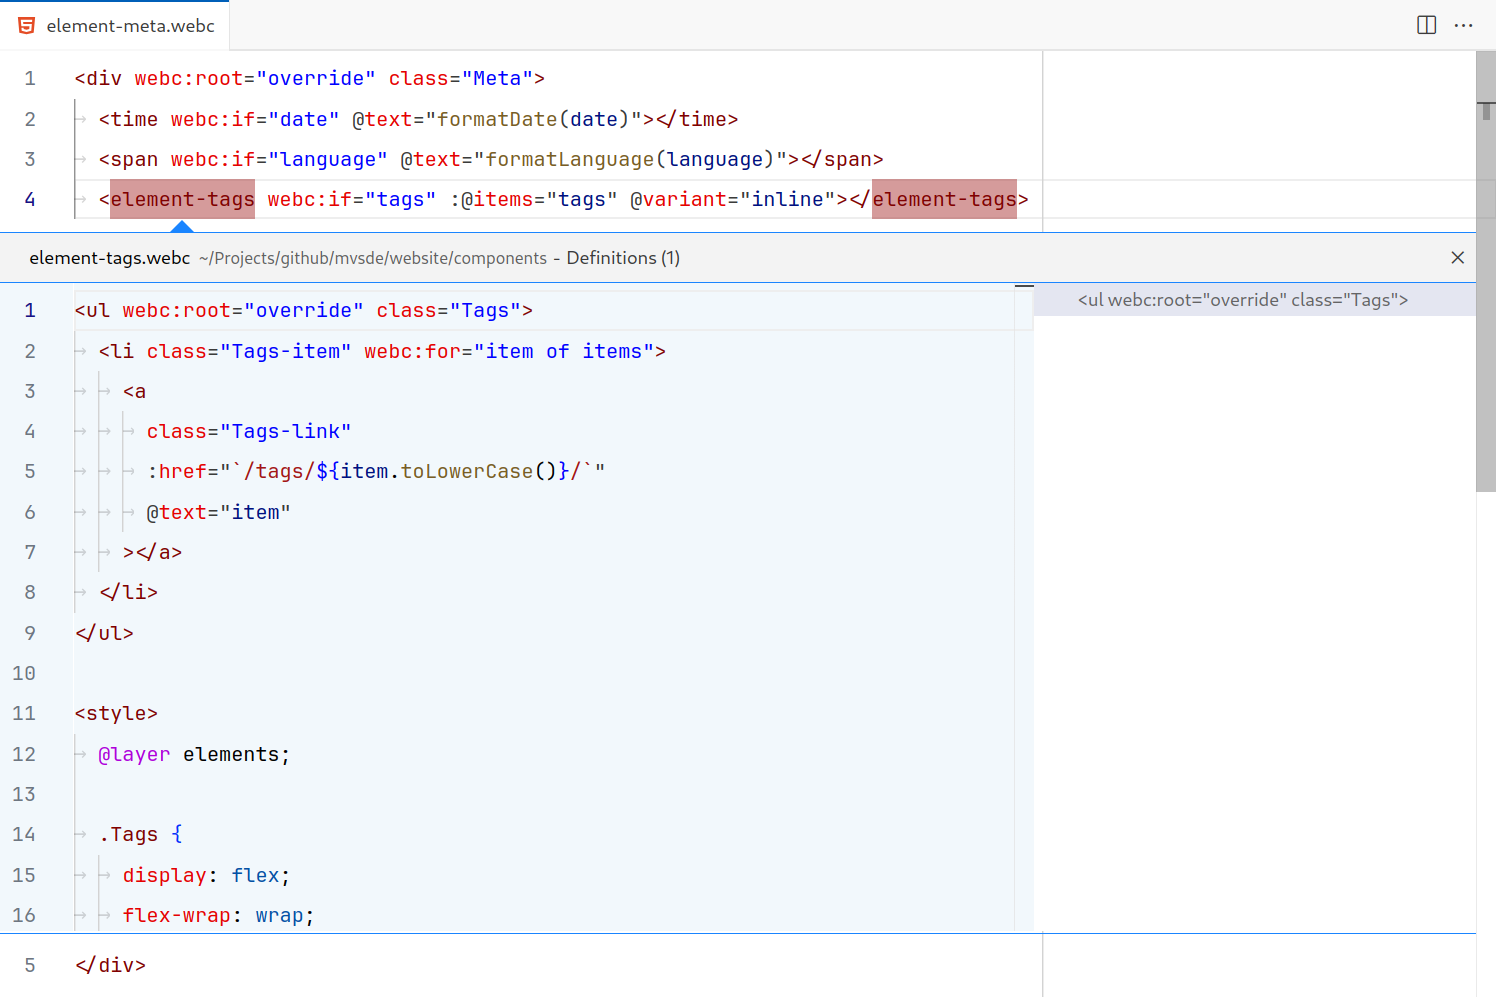
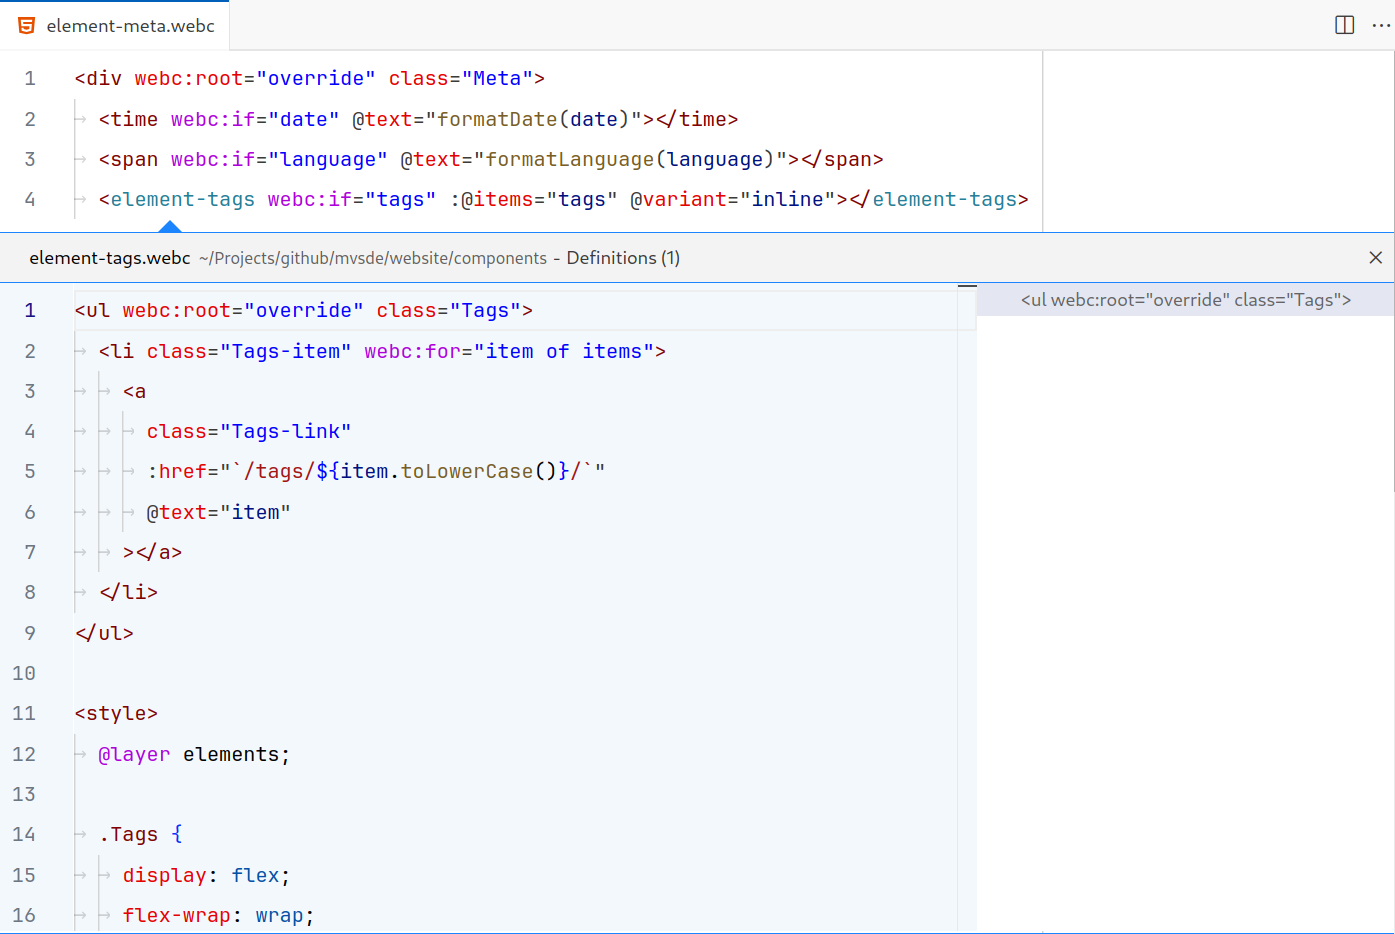
docs: Add semantic highlighting

diff --git a/README.md b/README.md
@@ -7,23 +7,30 @@ Please refer to the [WebC documentation](https://www.11ty.dev/docs/languages/web
 - [Autocomplete](#autocomplete)
 - [Documentation](#documentation)
 - [Definitions](#definitions)
+- [Semantic highlighting](#semantic-highlighting)
 
 ## Autocomplete
 
 Provides `webc:` and `@` attribute autocomplete suggestions for HTML tags.
 
-<img src="images/attribute-autocomplete-webc.webp" alt="List of autocomplete suggestions for WebC attributes." width="396">
+<img src="images/attribute-autocomplete-webc.webp" alt="List of autocomplete suggestions for WebC attributes." width="396" height="294">
 
-<img src="images/attribute-autocomplete-at.webp" alt="List of autocomplete suggestions for WebC @ attributes." width="378">
+<img src="images/attribute-autocomplete-at.webp" alt="List of autocomplete suggestions for WebC @ attributes." width="378" height="132">
 
 ## Documentation
 
-`webc:` and `@` attributes show a link to the WebC documentation on hover.
+`webc:` and `@` attributes show links to the WebC documentation on hover.
 
-<img src="images/documentation-links.webp" alt="Hover tooltip on a webc:for attribute showing a link to the WebC documentation." width="345">
+<img src="images/documentation-links.webp" alt="Hover tooltip on a webc:for attribute showing a link to the WebC documentation." width="345" height="95">
 
 ## Definitions
 
 Support for _Go to Definition_ and _Peek Definition_ ([VS Code _Peek_ documentation](https://code.visualstudio.com/docs/editor/editingevolved#_peek)) and <kbd>Ctrl</kbd> + Click on WebC component tags to go the source file.
 
-<img src="images/peek-definition.webp" alt="Peek definition disclosure box for a WebC component." width="748">
+<img src="images/peek-definition.webp" alt="Peek definition disclosure box for a WebC component." width="698" height="467">
+
+## Semantic highlighting
+
+[Semantic highlighting](https://code.visualstudio.com/docs/getstarted/themes#_editor-semantic-highlighting) for WebC component tags and keyword attributes.
+
+<img src="images/semantic-highlighting.webp" alt="Semantic highlighting example for a WebC component." width="253" height="155">
